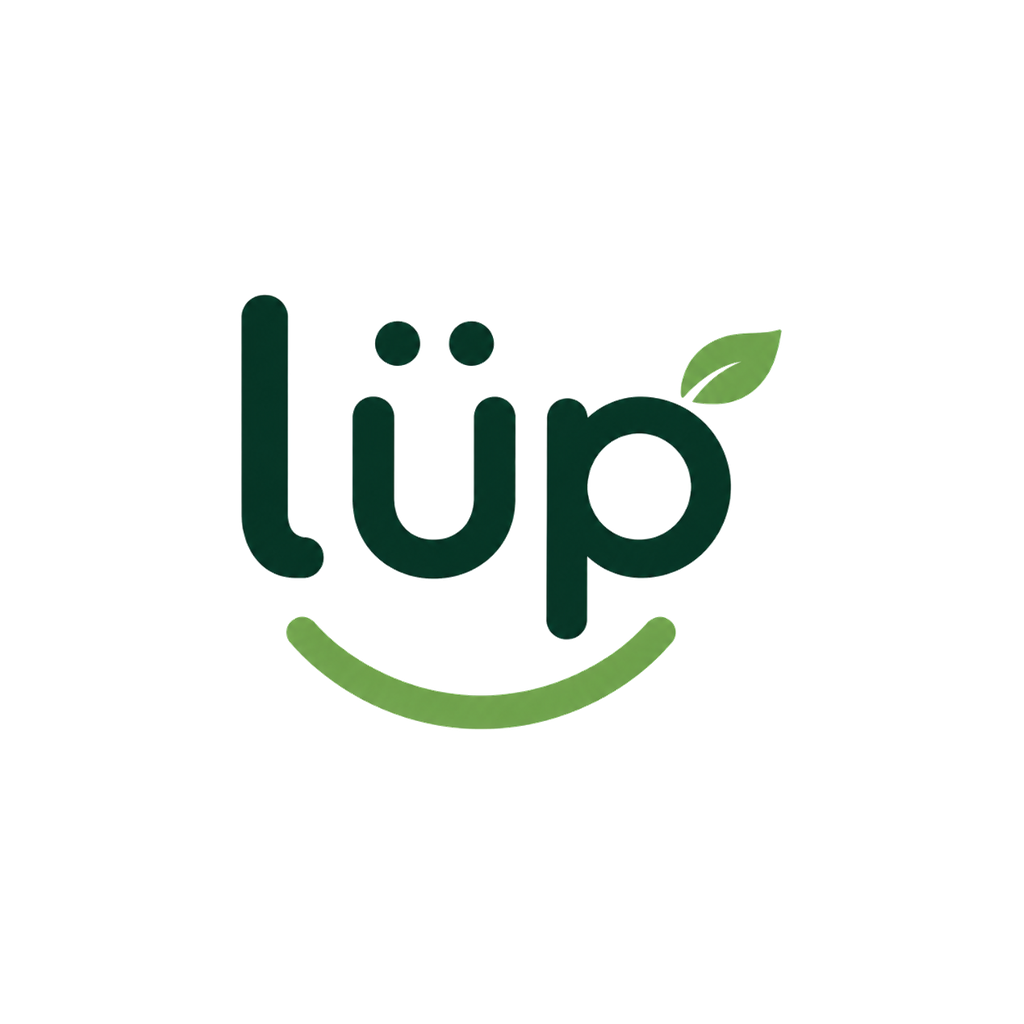
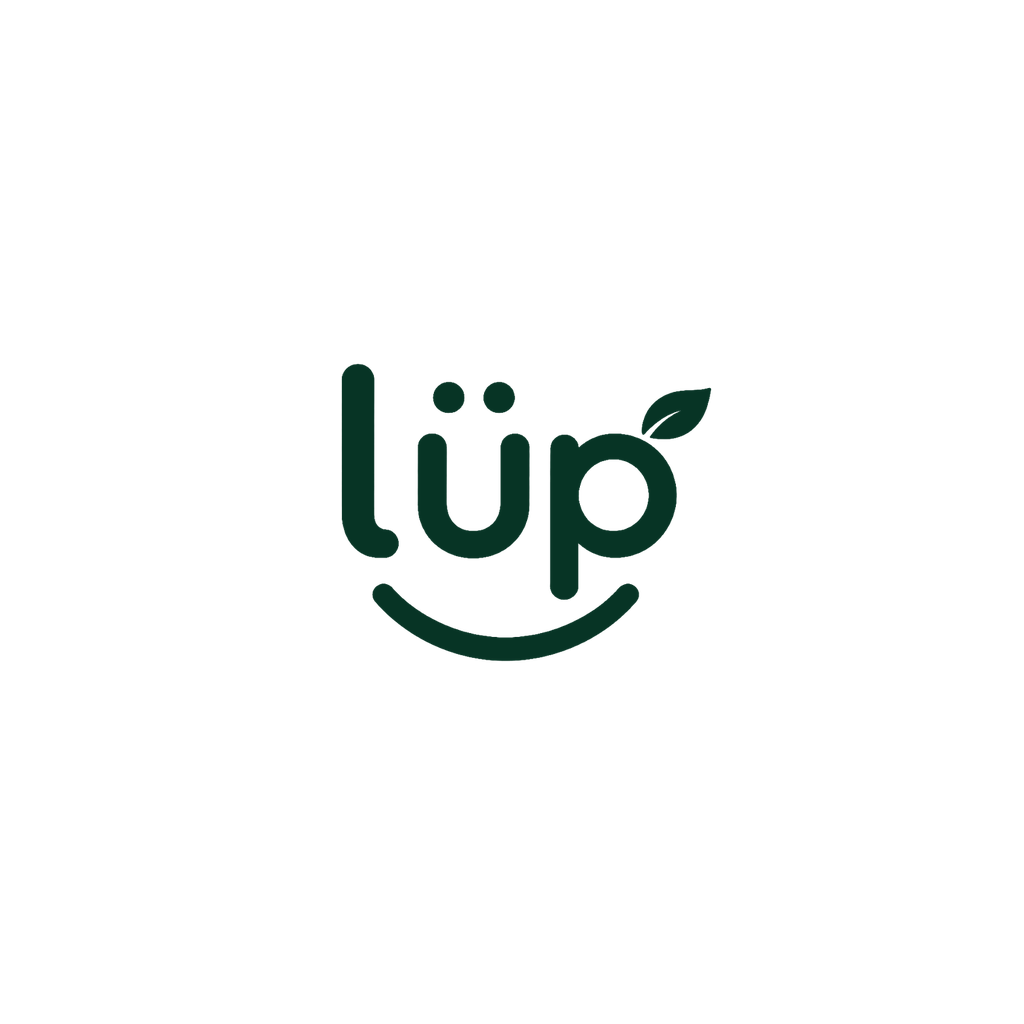
Ícono verde claro en el celular y blanco para la Play Store

Changed region(s): [[0.2188, 0.2812, 0.7812, 0.7188]]

diff --git a/app/src/componentes/Logo.js b/app/src/componentes/Logo.js
@@ -6,13 +6,19 @@ import { Image } from 'react-native';
 import { useTema } from '../tema';
 
 const PROPORCION = 490 / 600; // alto / ancho de logo.png
+// En logo.png la hoja sobresale a la derecha, así que "lüp" queda corrido a la izquierda.
+// Se corre la imagen un 4,5 % a la derecha para que las LETRAS queden centradas.
+const CORRER = 0.045;
 
 export default function Logo({ ancho = 120, estilo }) {
   const { esOscuro } = useTema();
   return (
     <Image
       source={esOscuro ? require('../../assets/logo-claro.png') : require('../../assets/logo.png')}
-      style={[{ width: ancho, height: ancho * PROPORCION, alignSelf: 'center' }, estilo]}
+      style={[
+        { width: ancho, height: ancho * PROPORCION, alignSelf: 'center', transform: [{ translateX: ancho * CORRER }] },
+        estilo,
+      ]}
       resizeMode="contain"
       accessibilityLabel="Lüp"
     />

diff --git a/app/assets/tiendas/LEEME.md b/app/assets/tiendas/LEEME.md
@@ -1,0 +1,8 @@
+# Íconos para las tiendas
+
+- `icono-play-store-512.png`: el que se sube en **Google Play Console** → Ficha de Play Store → "Ícono de la app" (512 × 512).
+- `icono-tienda-1024.png`: la misma versión en grande, para presentaciones y redes.
+
+En el celular la app usa el ícono **verde claro** (`assets/icon.png` y los `android-icon-*.png`, configurados en `app.json`).
+En la Play Store se ve este, **blanco con aire**.
+En iPhone, Apple usa el mismo ícono en el celular y en la App Store, así que ahí se ve el verde claro en los dos lugares.
